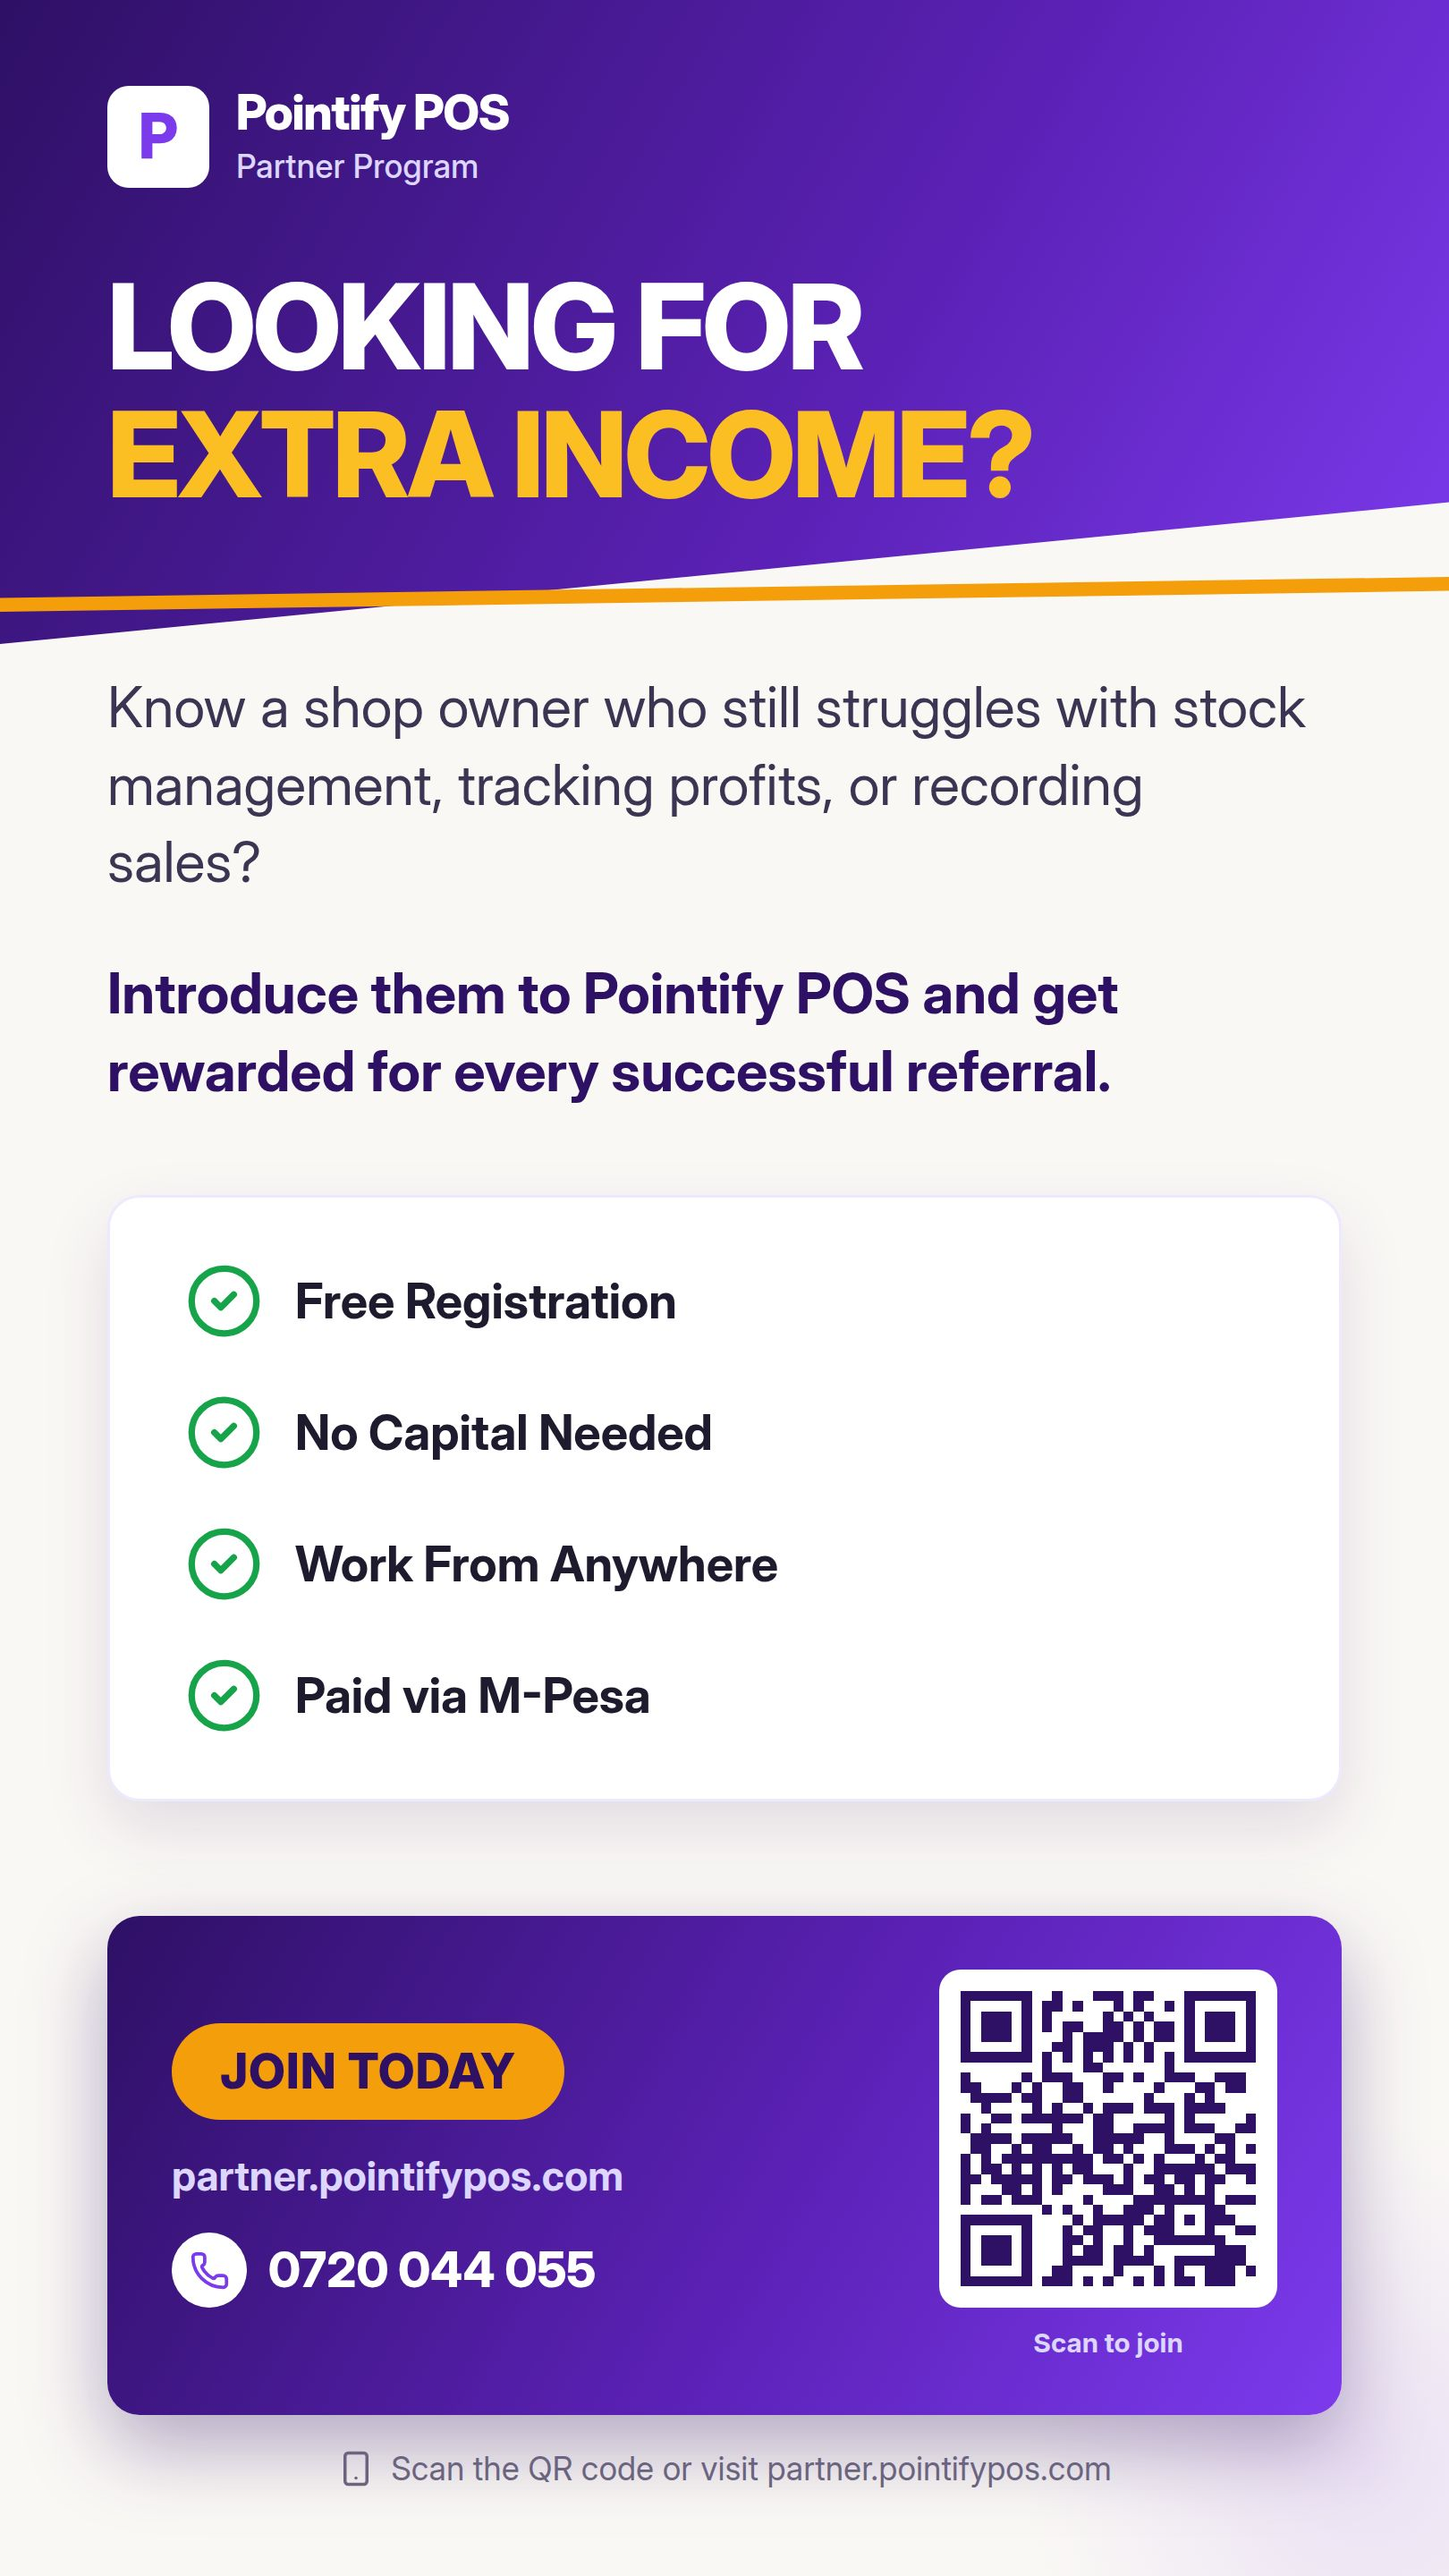
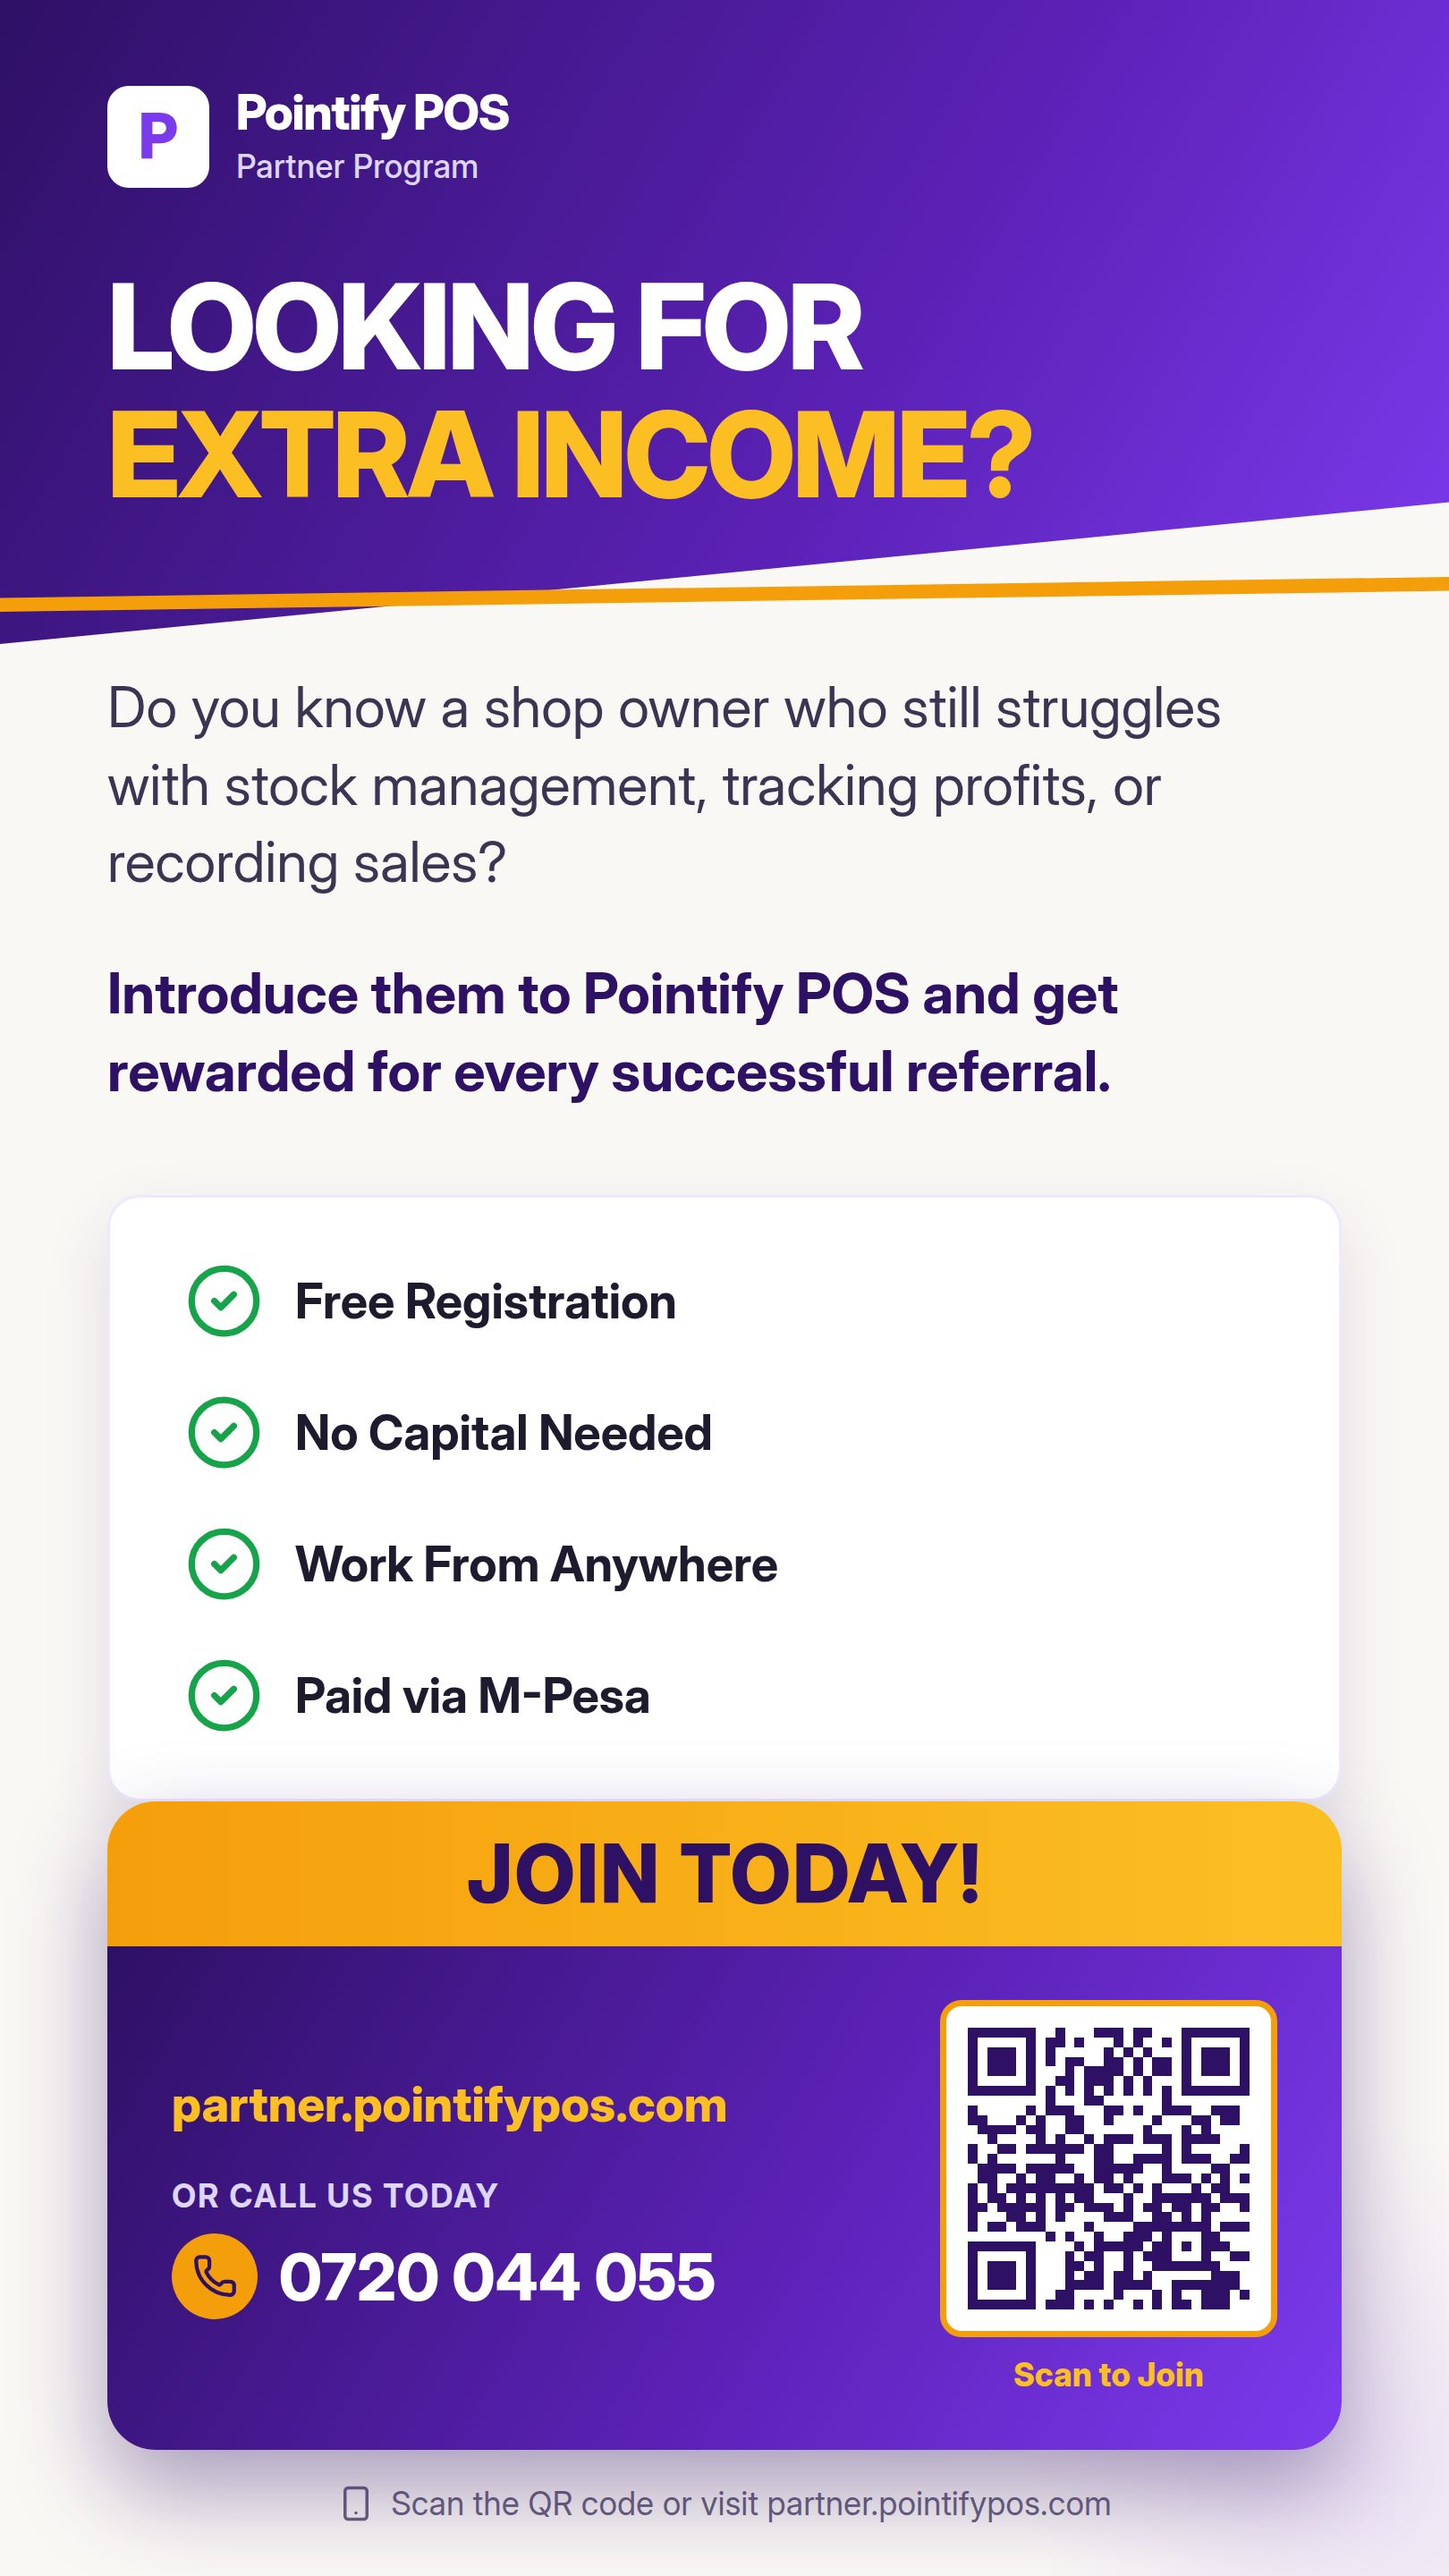
Update poster design to make contact information more prominent
Change "Know a shop owner" to "Do you know a shop owner" and redesign the call-to-action section with an amber gradient and larger text.

Replit-Commit-Author: Agent
Replit-Commit-Session-Id: 7881019f-e82f-4f27-b2d1-29d35c0b27c1
Replit-Commit-Checkpoint-Type: full_checkpoint
Replit-Commit-Event-Id: ee125355-9772-4190-95fd-30c273cb93f6
Replit-Commit-Screenshot-Url: https://storage.googleapis.com/screenshot-production-us-central1/cb193285-7bf4-449f-9b0a-a237699dcd95/7881019f-e82f-4f27-b2d1-29d35c0b27c1/rtm2UVn
Replit-Helium-Checkpoint-Created: true

Changed region(s): [[0.0617, 0.6875, 0.9568, 1.0], [0.0617, 0.25, 0.8951, 0.3438]]

diff --git a/artifacts/mockup-sandbox/src/components/mockups/partner-poster/PosterStatus2.tsx b/artifacts/mockup-sandbox/src/components/mockups/partner-poster/PosterStatus2.tsx
@@ -88,8 +88,8 @@ export function PosterStatus2() {
               className="max-w-4xl text-[42px] leading-snug"
               style={{ color: "#3b3452" }}
             >
-              Know a shop owner who still struggles with stock management,
-              tracking profits, or recording sales?
+              Do you know a shop owner who still struggles with stock
+              management, tracking profits, or recording sales?
             </p>
             <p
               className="mt-10 max-w-4xl text-[42px] font-bold leading-snug"
@@ -135,45 +135,71 @@ export function PosterStatus2() {
           {/* CTA */}
           <div className="mt-auto">
             <div
-              className="flex items-center justify-between gap-8 rounded-3xl px-12 py-10 text-white"
-              style={{
-                background:
-                  "linear-gradient(120deg, #2e1065 0%, #5b21b6 55%, #7c3aed 100%)",
-                boxShadow: "0 24px 60px rgba(46,16,101,0.35)",
-              }}
+              className="relative overflow-hidden rounded-[36px]"
+              style={{ boxShadow: "0 30px 70px rgba(46,16,101,0.4)" }}
             >
-              <div>
+              {/* Amber header strip */}
+              <div
+                className="flex items-center justify-center py-6"
+                style={{
+                  background:
+                    "linear-gradient(90deg, #f59e0b 0%, #fbbf24 100%)",
+                }}
+              >
                 <div
-                  className="inline-block rounded-full px-9 py-4 text-4xl font-extrabold uppercase tracking-wide"
-                  style={{ background: "#f59e0b", color: "#2e1065" }}
+                  className="text-6xl font-extrabold uppercase tracking-wide"
+                  style={{ color: "#2e1065" }}
                 >
-                  Join Today
-                </div>
-                <div className="mt-6 text-3xl font-bold text-violet-200">
-                  partner.pointifypos.com
-                </div>
-                <div className="mt-6 flex items-center gap-4 text-4xl font-extrabold">
-                  <span
-                    className="flex items-center justify-center rounded-full bg-white"
-                    style={{ width: 56, height: 56 }}
-                  >
-                    <Phone
-                      style={{ width: 30, height: 30, color: "#7c3aed" }}
-                    />
-                  </span>
-                  0720 044 055
+                  Join Today!
                 </div>
               </div>
-              <div className="flex flex-col items-center gap-3">
-                <div className="rounded-2xl bg-white p-4">
-                  <img
-                    src={qrUrl}
-                    alt="QR code for partner.pointifypos.com"
-                    style={{ width: 220, height: 220 }}
-                  />
+              {/* Purple body */}
+              <div
+                className="flex items-center justify-between gap-8 px-12 py-10 text-white"
+                style={{
+                  background:
+                    "linear-gradient(120deg, #2e1065 0%, #5b21b6 55%, #7c3aed 100%)",
+                }}
+              >
+                <div>
+                  <div
+                    className="text-4xl font-extrabold"
+                    style={{ color: "#fbbf24" }}
+                  >
+                    partner.pointifypos.com
+                  </div>
+                  <div className="mt-8 text-2xl font-bold uppercase tracking-wider text-violet-200">
+                    Or Call Us Today
+                  </div>
+                  <div className="mt-3 flex items-center gap-4 text-5xl font-extrabold">
+                    <span
+                      className="flex items-center justify-center rounded-full"
+                      style={{ width: 64, height: 64, background: "#f59e0b" }}
+                    >
+                      <Phone
+                        style={{ width: 34, height: 34, color: "#2e1065" }}
+                      />
+                    </span>
+                    0720 044 055
+                  </div>
                 </div>
-                <div className="text-xl font-bold text-violet-200">
-                  Scan to join
+                <div className="flex flex-col items-center gap-3">
+                  <div
+                    className="rounded-2xl bg-white p-4"
+                    style={{ border: "5px solid #f59e0b" }}
+                  >
+                    <img
+                      src={qrUrl}
+                      alt="QR code for partner.pointifypos.com"
+                      style={{ width: 210, height: 210 }}
+                    />
+                  </div>
+                  <div
+                    className="text-2xl font-extrabold"
+                    style={{ color: "#fbbf24" }}
+                  >
+                    Scan to Join
+                  </div>
                 </div>
               </div>
             </div>
